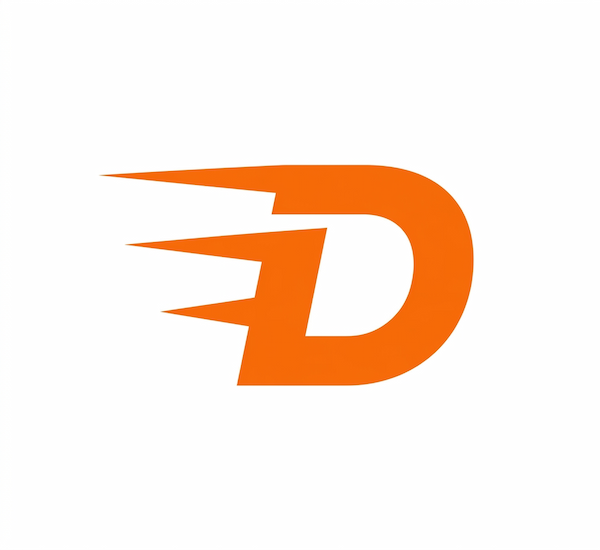
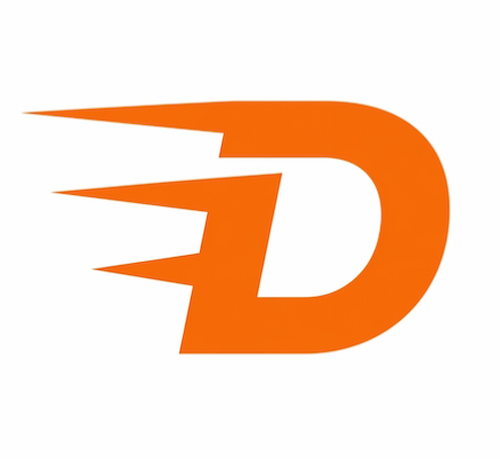
cambio de imagen del negocio electronica express,actualiza a sw.js a version v10

Changed region(s): [[0.06, 0.2135, 0.9, 0.793]]

diff --git a/js/main.js b/js/main.js
@@ -35,7 +35,7 @@ const negociosPorCategoria = {
         { nombre: "1VEA HOGAR", envioGratis: true, img: "img/1vea.webp" }
     ],
     "otros": [
-        { nombre: "ELECTRÓNICA EXPRESS", envioGratis: false, img: "https://images.unsplash.com/photo-1550009158-9ebf69173e03?w=300" }
+        { nombre: "ELECTRÓNICA EXPRESS", envioGratis: false, img: "img/electronica.webp" }
     ]
 };
 
